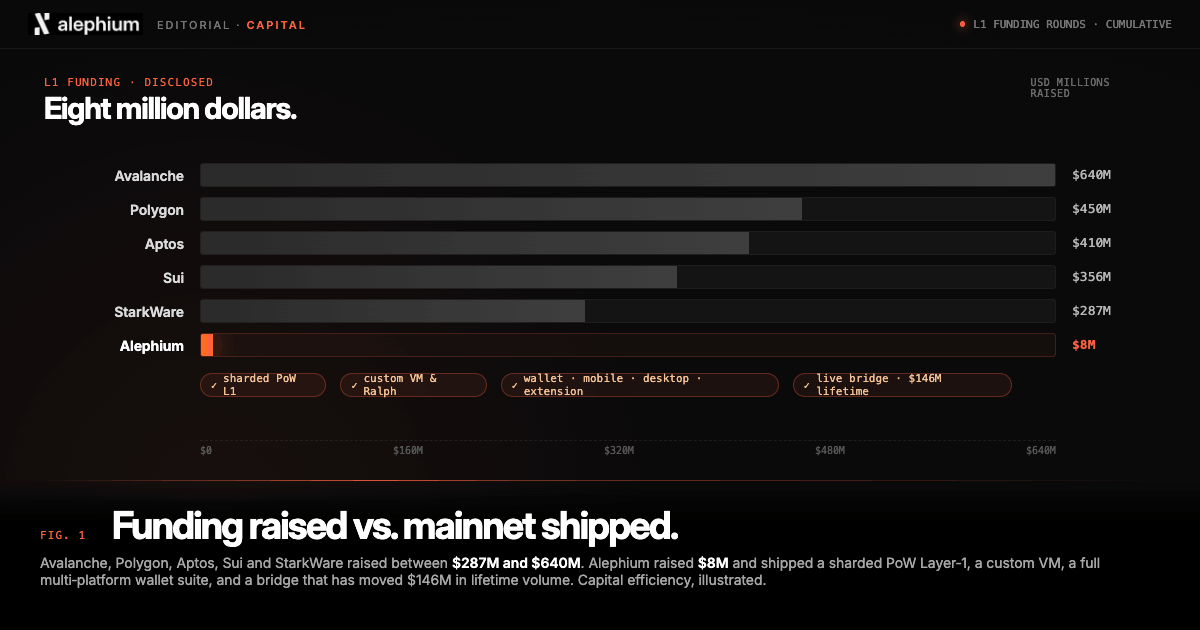
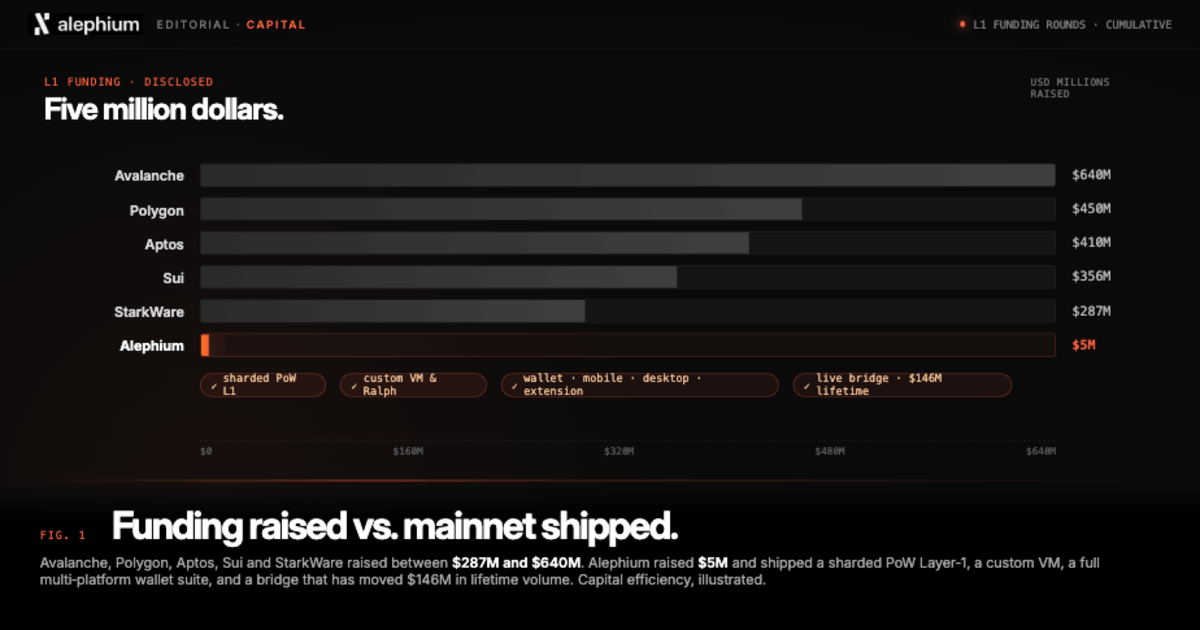
Update Posts “built-lean-built-free-built-to-last/index”

diff --git a/src/content/news/built-lean-built-free-built-to-last/index.md b/src/content/news/built-lean-built-free-built-to-last/index.md
@@ -1,10 +1,10 @@
 ---
 title: Built Lean. Built Free. Built to Last.
-description: Eight million dollars. Five years. Zero outages. Discover how
+description: Five million dollars. Five years. Zero outages. Discover how
   Alephium built a highly secure, sharded L1 by staying true to crypto's
   cypherpunk vision.
 seoDescription: Explore how Alephium built a secure, sharded PoW Layer 1 with
-  just $8M. See why true decentralization, sUTXO security, and 100% uptime beat
+  just $5M. See why true decentralization, sUTXO security, and 100% uptime beat
   VC-funded hype.
 date: 2026-05-28T20:00:00.000Z
 spotlight: true
@@ -19,7 +19,7 @@ relatedPosts:
 
 - - -
 
-* Eight million dollars. 
+* Five million dollars. 
 * Five years. 
 * Zero outages. 
 * No hedge fund money.
@@ -40,11 +40,11 @@ Crypto “grew up”, put on a suit, and learned to talk to institutions.
 
 This is a column about what happens when a team builds as if the whitepaper still means something (it means everything).
 
-## What Eight Million Dollars Actually Builds
+## What Five Million Dollars Actually Builds
 
 The figures are worth sitting with for a moment. Avalanche raised over $640 million. Polygon raised $450 million. Aptos raised $410 million. Sui raised $356 million. StarkWare raised $287 million…
 
-**Alephium raised $8 million**, and with it, shipped a sharded proof-of-work Layer 1 with a custom virtual machine, a full wallet suite across mobile, desktop, and browser extension, and a live bridge that has processed over $146 million in lifetime volume.
+**Alephium raised $5 million**, and with it, shipped a sharded proof-of-work Layer 1 with a custom virtual machine, a full wallet suite across mobile, desktop, and browser extension, and a live bridge that has processed over $146 million in lifetime volume.
 
 ![](body1-eight-million.png)
 
@@ -52,7 +52,7 @@ My comparison is not about embarrassing well-funded competitors. I’m much more
 
 When you have raised hundreds of millions, you are accountable to the people who gave you that money, and those people have a timeline, a return expectation, and a risk profile that shapes every decision you make.
 
-When you have raised $8 million and you are building because you genuinely believe in what you are building, the decisions look different. Maybe they are leaner, likely more deliberate, and certainly less willing to ship the wrong thing because the runway demands it.
+When you have raised $5 million and you are building because you genuinely believe in what you are building, the decisions look different. Maybe they are leaner, likely more deliberate, and certainly less willing to ship the wrong thing because the runway demands it.
 
 Capital efficiency is all the evidence you need to prove a set of robust priorities.
 
